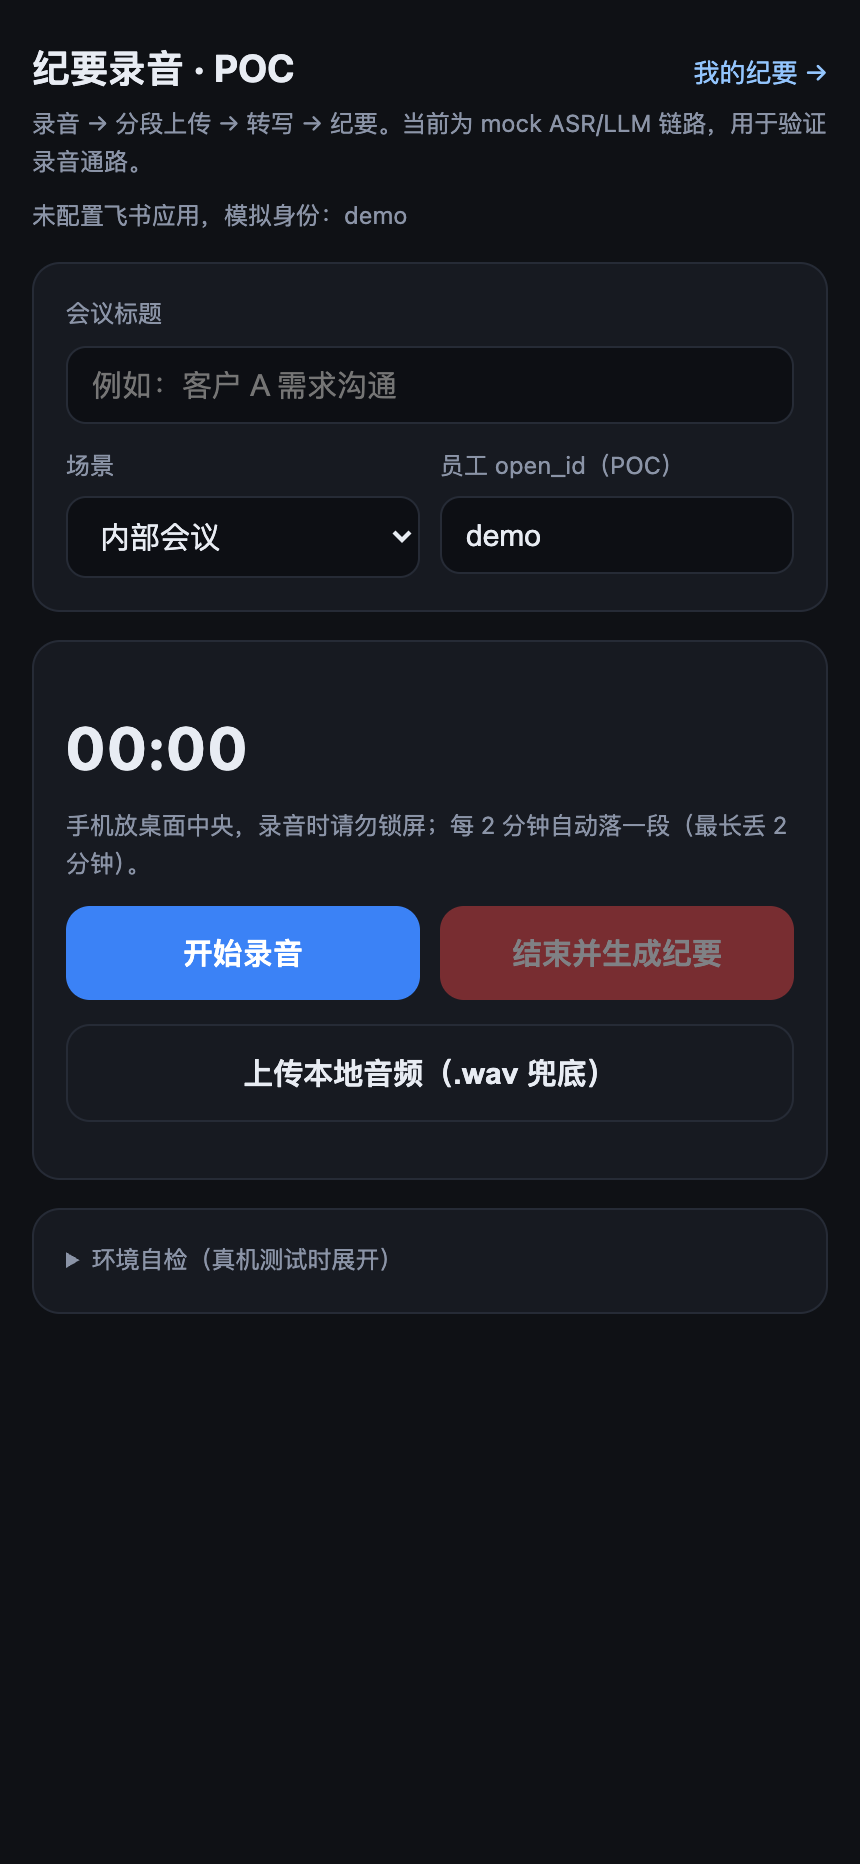
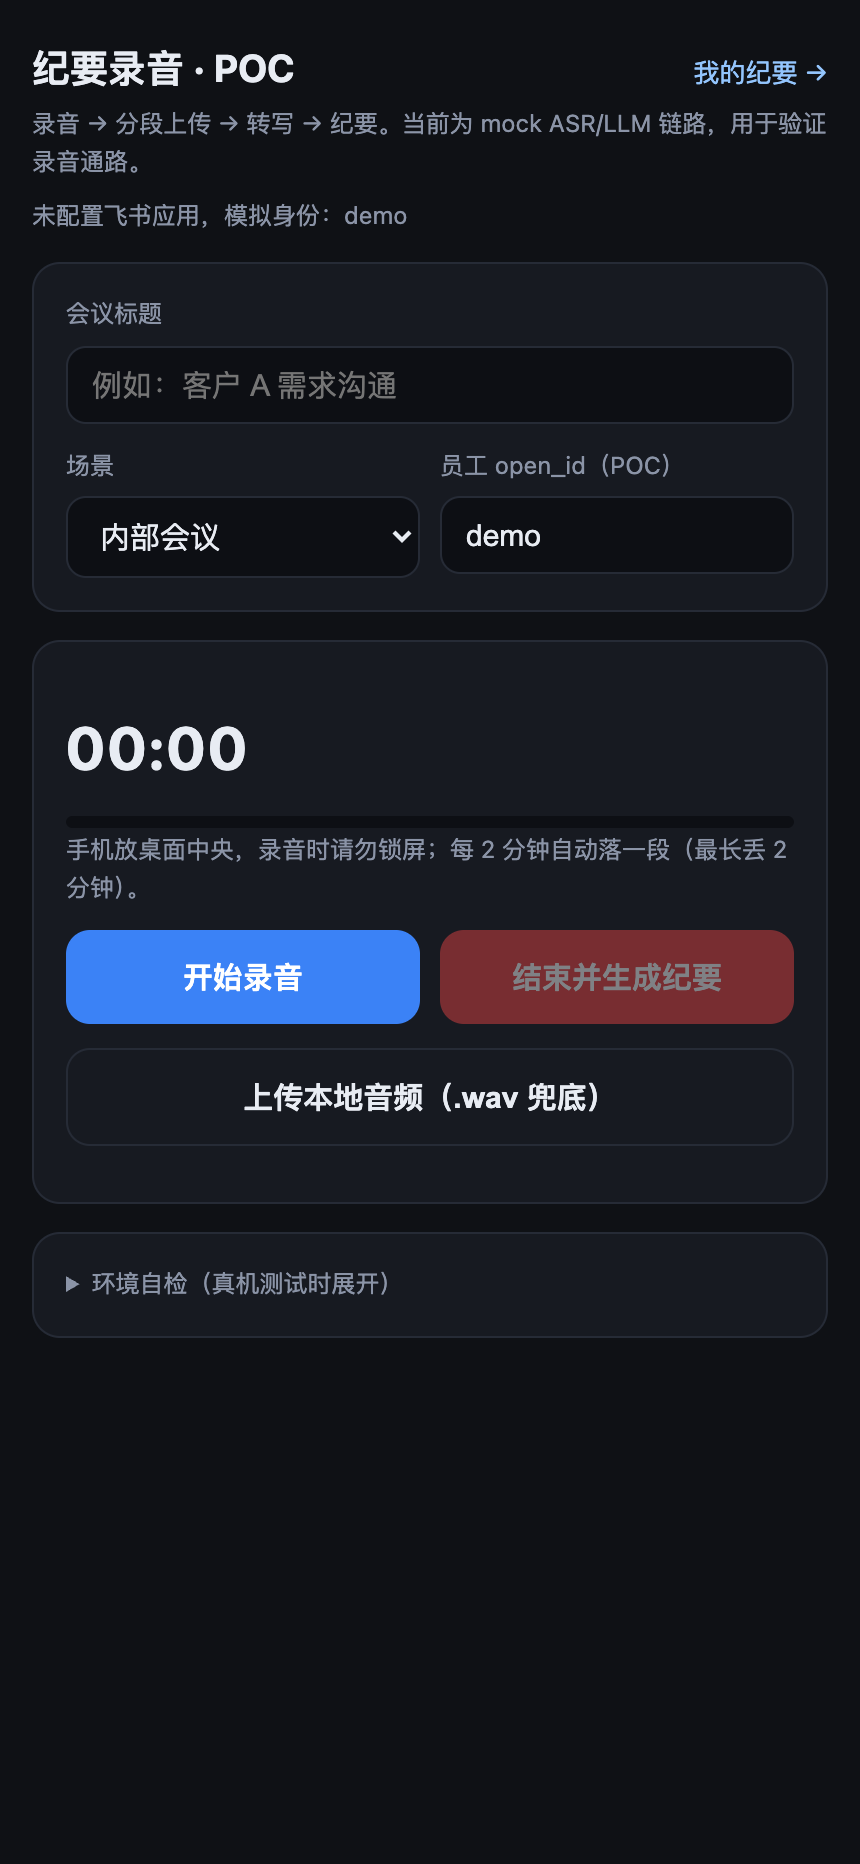
feishu-minutes: 录音页弱网重试、电平指示、Wake Lock、权限提示
- 分段上传失败时保留音频在内存，提供「重试上传本段」，无需重录（浏览器 E2E 验证）
- AnalyserNode 实时麦克风电平条，确认录音正常
- navigator.wakeLock 屏幕常亮，切回前台自动重申请
- 麦克风权限错误映射为中文提示
- 重新截图；54 个用例 + 5 个浏览器 E2E 通过

Changed region(s): [[0.0605, 0.4356, 0.9372, 0.6223], [0.2419, 0.6534, 0.4535, 0.7157], [0.1209, 0.6534, 0.2116, 0.7157]]

diff --git a/feishu-minutes/web/recorder.html b/feishu-minutes/web/recorder.html
@@ -26,6 +26,8 @@
   .dot { width:12px; height:12px; border-radius:50%; background:var(--danger); animation:pulse 1.2s infinite; }
   @keyframes pulse { 0%,100%{opacity:1} 50%{opacity:.25} }
   .timer { font-variant-numeric:tabular-nums; font-size:30px; font-weight:700; letter-spacing:1px; }
+  .level { height:6px; background:#0d0f14; border-radius:99px; overflow:hidden; margin:10px 0 2px; }
+  .level > i { display:block; height:100%; width:0%; background:linear-gradient(90deg,#22c55e,#eab308,#ef4444); transition:width .08s linear; }
   .meta { color:var(--muted); font-size:12px; }
   .log { font:12px/1.6 ui-monospace,SFMono-Regular,Menlo,monospace; color:var(--muted); white-space:pre-wrap; max-height:180px; overflow:auto; }
   .pill { display:inline-block; padding:2px 8px; border-radius:999px; font-size:11px; border:1px solid var(--line); color:var(--muted); margin-right:6px; }
@@ -66,6 +68,7 @@
 
   <div class="card">
     <div class="rec"><span id="dot" class="dot" style="display:none"></span><span id="timer" class="timer">00:00</span></div>
+    <div class="level"><i id="levelBar"></i></div>
     <div class="meta" id="hint">手机放桌面中央，录音时请勿锁屏；每 2 分钟自动落一段（最长丢 2 分钟）。</div>
     <div class="row">
       <button id="btnStart">开始录音</button>
@@ -74,6 +77,7 @@
     <div class="row"><button id="btnUpload" class="ghost">上传本地音频（.wav 兜底）</button></div>
     <input id="fileInput" type="file" accept="audio/*,.wav" hidden>
     <div class="log" id="status" style="margin-top:12px"></div>
+    <div class="row" id="retryBox" style="display:none"><button id="btnRetryUpload" class="danger">重试上传本段</button></div>
   </div>
 
   <div class="card">
@@ -164,6 +168,10 @@ class WavRecorder {
     this.ctx = ctx;
     this.srcRate = ctx.sampleRate;
     this.source = ctx.createMediaStreamSource(this.stream);
+    this.analyser = ctx.createAnalyser();
+    this.analyser.fftSize = 512;
+    this.source.connect(this.analyser);
+    this.levelBuf = new Uint8Array(this.analyser.fftSize);
     this.proc = ctx.createScriptProcessor(4096, 1, 1);
     this.gain = ctx.createGain();
     this.gain.gain.value = 0; // 静音，仅保持音频图运行
@@ -180,10 +188,20 @@ class WavRecorder {
     this.state = 'recording';
     log('录音中，采样率 ' + this.srcRate + ' → 16k');
   }
+  level() {
+    if (!this.analyser) return 0;
+    this.analyser.getByteTimeDomainData(this.levelBuf);
+    let sum = 0;
+    for (let i = 0; i < this.levelBuf.length; i++) {
+      const v = (this.levelBuf[i] - 128) / 128;
+      sum += v * v;
+    }
+    return Math.min(1, Math.sqrt(sum / this.levelBuf.length) * 4);
+  }
   async stop() {
     this.state = 'stopped';
     try {
-      this.proc.disconnect(); this.source.disconnect(); this.gain.disconnect();
+      this.proc.disconnect(); this.source.disconnect(); this.analyser.disconnect(); this.gain.disconnect();
       this.stream.getTracks().forEach(t => t.stop());
       await this.ctx.close();
     } catch (e) { /* ignore */ }
@@ -205,6 +223,7 @@ function fmt(ms) {
 function tick() {
   if (!S.running) return;
   $('#timer').textContent = fmt(S.base + (Date.now() - S.segStart));
+  if (S.rec) $('#levelBar').style.width = Math.round(S.rec.level() * 100) + '%';
 }
 
 async function api(path, opts = {}) {
@@ -242,7 +261,21 @@ async function uploadSegment(idx, blob) {
   throw lastErr;
 }
 
+let wakeLock = null;
+async function acquireWakeLock() {
+  try {
+    if ('wakeLock' in navigator) {
+      wakeLock = await navigator.wakeLock.request('screen');
+      wakeLock.addEventListener('release', () => { wakeLock = null; });
+    }
+  } catch (e) { /* 不支持或被拒绝时静默 */ }
+}
+document.addEventListener('visibilitychange', () => {
+  if (document.visibilityState === 'visible' && S.running && !wakeLock) acquireWakeLock();
+});
+
 async function beginSegment() {
+  acquireWakeLock();
   S.rec = new WavRecorder();
   await S.rec.start();
   S.segStart = Date.now();
@@ -256,6 +289,7 @@ async function beginSegment() {
 
 async function endSegment(autoNext) {
   S.running = false;
+  if (wakeLock) { try { await wakeLock.release(); } catch (e) {} wakeLock = null; }
   clearTimeout(S.autoTimer);
   clearInterval(S.timer);
   const blob = await S.rec.stop();
@@ -263,7 +297,13 @@ async function endSegment(autoNext) {
   $('#dot').style.display = 'none';
   const idx = S.segIdx++;
   try { await uploadSegment(idx, blob); }
-  catch (e) { log('分段上传最终失败：' + e.message + '，请重新录音或稍后重试。'); S.running = false; return; }
+  catch (e) {
+    S.pending = { idx, blob };
+    S.pendingAutoNext = autoNext;
+    $('#retryBox').style.display = 'flex';
+    log('本段上传失败（' + e.message + '）。音频还在内存里，点「重试上传本段」即可，不用重录。');
+    return;
+  }
   if (autoNext) { log('自动进入下一段…'); await beginSegment(); }
 }
 
@@ -318,13 +358,38 @@ async function poll() {
 /* ---------- 事件 ---------- */
 $('#btnStart').onclick = async () => {
   try { await startSession(); }
-  catch (e) { log('启动失败：' + e.message); $('#btnStart').disabled = false; }
+  catch (e) {
+    const name = e && e.name || '';
+    const hint = name === 'NotAllowedError' ? '麦克风权限被拒绝：请在浏览器/飞书设置里允许麦克风后刷新页面。'
+      : name === 'NotFoundError' ? '没有找到麦克风设备。'
+      : name === 'NotReadableError' ? '麦克风被其他应用占用，关掉录音类应用后重试。'
+      : e.message;
+    log('启动失败：' + hint);
+    $('#btnStart').disabled = false;
+  }
 };
 
 $('#btnStop').onclick = async () => {
   $('#btnStop').disabled = true;
   if (S.running) await endSegment(false);
   await finishSession();
+};
+
+$('#btnRetryUpload').onclick = async () => {
+  if (!S.pending) return;
+  const { idx, blob } = S.pending;
+  $('#btnRetryUpload').disabled = true;
+  try {
+    await uploadSegment(idx, blob);
+    S.pending = null;
+    $('#retryBox').style.display = 'none';
+    if (S.pendingAutoNext) { await beginSegment(); }
+    else { await finishSession(); }
+  } catch (e) {
+    log('仍然失败：' + e.message);
+  } finally {
+    $('#btnRetryUpload').disabled = false;
+  }
 };
 
 $('#btnUpload').onclick = () => $('#fileInput').click();

diff --git a/feishu-minutes/backend/tests/e2e/test_retry_browser.py b/feishu-minutes/backend/tests/e2e/test_retry_browser.py
@@ -1,0 +1,67 @@
+"""弱网重试验证：分段上传失败后保留音频，点「重试上传」继续，不需要重录。"""
+
+from __future__ import annotations
+
+import os
+import sys
+
+import httpx
+from playwright.sync_api import sync_playwright
+
+BASE = os.environ.get("FM_E2E_BASE", "http://127.0.0.1:8777")
+UID = "e2e-retry"
+HEADERS = {"X-Employee-Open-Id": UID}
+
+
+def main() -> int:
+    state = {"fail": True, "count": 0}
+    args = [
+        "--use-fake-ui-for-media-stream",
+        "--use-fake-device-for-media-stream",
+        "--use-file-for-fake-audio-capture=/tmp/mic_10s.wav",
+    ]
+    with sync_playwright() as p:
+        try:
+            browser = p.chromium.launch(channel="chrome", args=args)
+        except Exception:
+            browser = p.chromium.launch(args=args)
+        ctx = browser.new_context(permissions=["microphone"], viewport={"width": 420, "height": 900})
+        ctx.add_init_script(f"localStorage.setItem('fm_uid', '{UID}')")
+        page = ctx.new_page()
+
+        def handle(route):
+            if state["fail"]:
+                state["count"] += 1
+                route.abort()
+            else:
+                route.continue_()
+
+        page.route("**/api/v1/recordings/*/segments*", handle)
+        page.goto(BASE, wait_until="domcontentloaded")
+        page.fill("#title", "弱网重试")
+        page.click("#btnStart")
+        page.wait_for_timeout(3000)
+        level = page.eval_on_selector("#levelBar", "el => el.style.width")
+        page.click("#btnStop")
+        page.wait_for_selector("#retryBox", state="visible", timeout=45000)
+        print("level during recording:", level or "(0%)", "| failed uploads:", state["count"])
+
+        state["fail"] = False
+        page.unroute("**/api/v1/recordings/*/segments*")
+        page.click("#btnRetryUpload")
+        page.wait_for_selector("#result", state="visible", timeout=60000)
+        text = page.inner_text("#result")
+        browser.close()
+
+    with httpx.Client(base_url=BASE, timeout=30, headers=HEADERS) as client:
+        recs = client.get("/api/v1/recordings").json()
+        rec = recs[0] if recs else None
+        print("server:", rec and (rec["status"], rec["segment_count"]))
+
+    ok = rec is not None and rec["status"] == "done" and rec["segment_count"] == 1 and "查看完整纪要" in text
+    print("RETRY E2E:", "PASS" if ok else "FAIL")
+    return 0 if ok else 1
+
+
+if __name__ == "__main__":
+    sys.exit(main())

diff --git a/feishu-minutes/README.md b/feishu-minutes/README.md
@@ -83,5 +83,7 @@ cd backend
 - 分发：飞书卡片（mock 落盘）、网站回调（HMAC 签名）、邮件 SMTP（mock 落盘）三条通道已实现
 - 兜底：手机系统录音 App 录的 m4a 可直接上传（已用真实 m4a 验证）
 - 断点续录：刷新/中断后页面提示「继续录音」，已上传段落不丢（E2E 验证）
+- 弱网兜底：分段上传失败时音频留在内存，点「重试上传本段」即可，不用重录（E2E 验证）
+- 录音页：麦克风电平条、屏幕常亮（Wake Lock）、权限错误中文提示
 - 分享：签名只读链接 + 卡片转发到指定会话（`POST /recordings/{id}/send`）
 - 下一步：飞书应用 + 腾讯云 ASR 凭据到位后真机联调

diff --git a/feishu-minutes/docs/06-开发与部署.md b/feishu-minutes/docs/06-开发与部署.md
@@ -109,6 +109,13 @@ cd backend
 
 卡片样式预览页：`/preview/card/<id>`（按飞书卡片结构渲染的近似效果）。
 
+## 弱网与前台保活
+
+- 屏幕常亮：优先用浏览器 Wake Lock API（`navigator.wakeLock`），切回前台自动重新申请。
+- 麦克风电平：`AnalyserNode` 实时显示音量，方便确认录音正常。
+- 上传失败：分段音频保留在内存并显示「重试上传本段」，网络恢复后直接续传，不用重录。
+- 权限错误：NotAllowedError / NotFoundError / NotReadableError 分别给中文提示。
+
 ## 断点续录
 
 录音页会把当前 `recording_id` 存在 localStorage；刷新/重开后如果该录音仍是

diff --git a/feishu-minutes/docs/08-员工使用说明.md b/feishu-minutes/docs/08-员工使用说明.md
@@ -19,6 +19,7 @@
 - **别锁屏**，录音期间保持页面在前台（切后台可能导致中断）
 - 环境尽量安静，避开空调出风口、窗外马路
 - 中途接了电话没关系：已录的部分不会丢，回到页面点「继续录音」接着录
+- 网络不好导致某一段没传上去？点「重试上传本段」即可，不用重录
 - 充电时录音更稳（长时间录音费电）
 
 ## 结果在哪看
